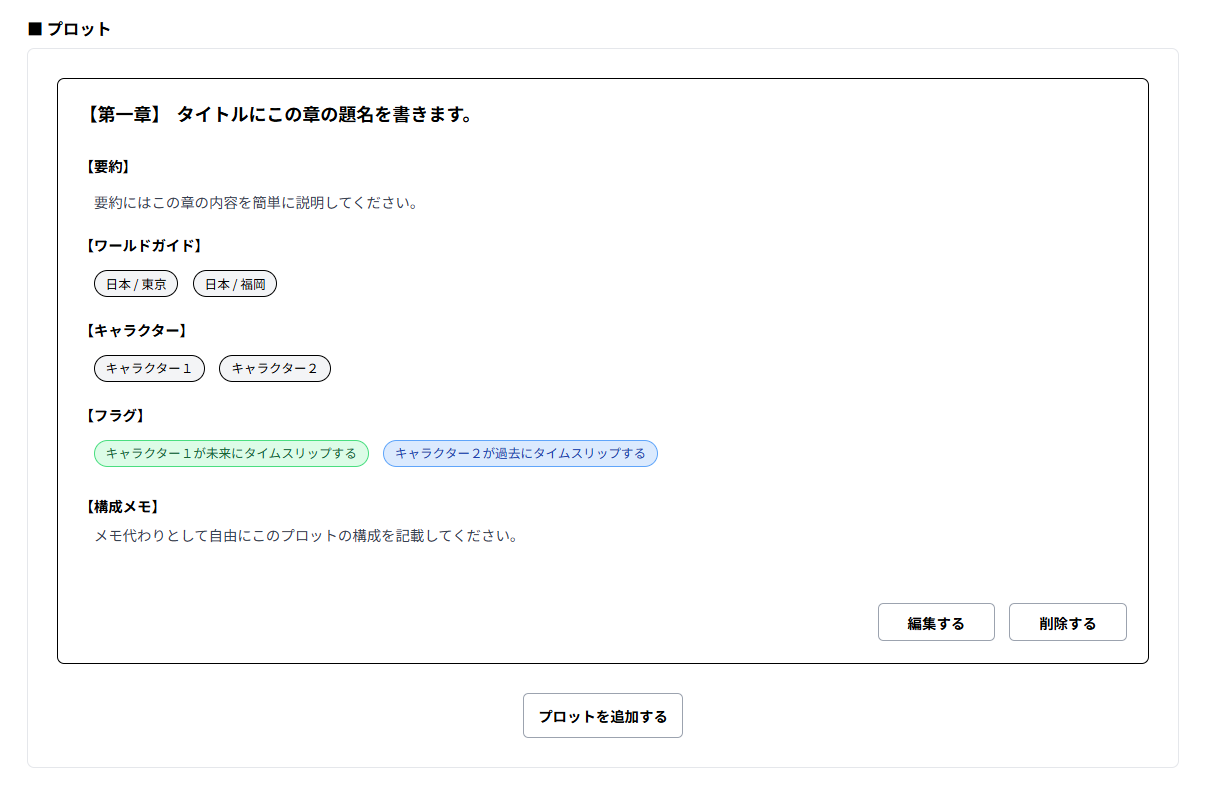
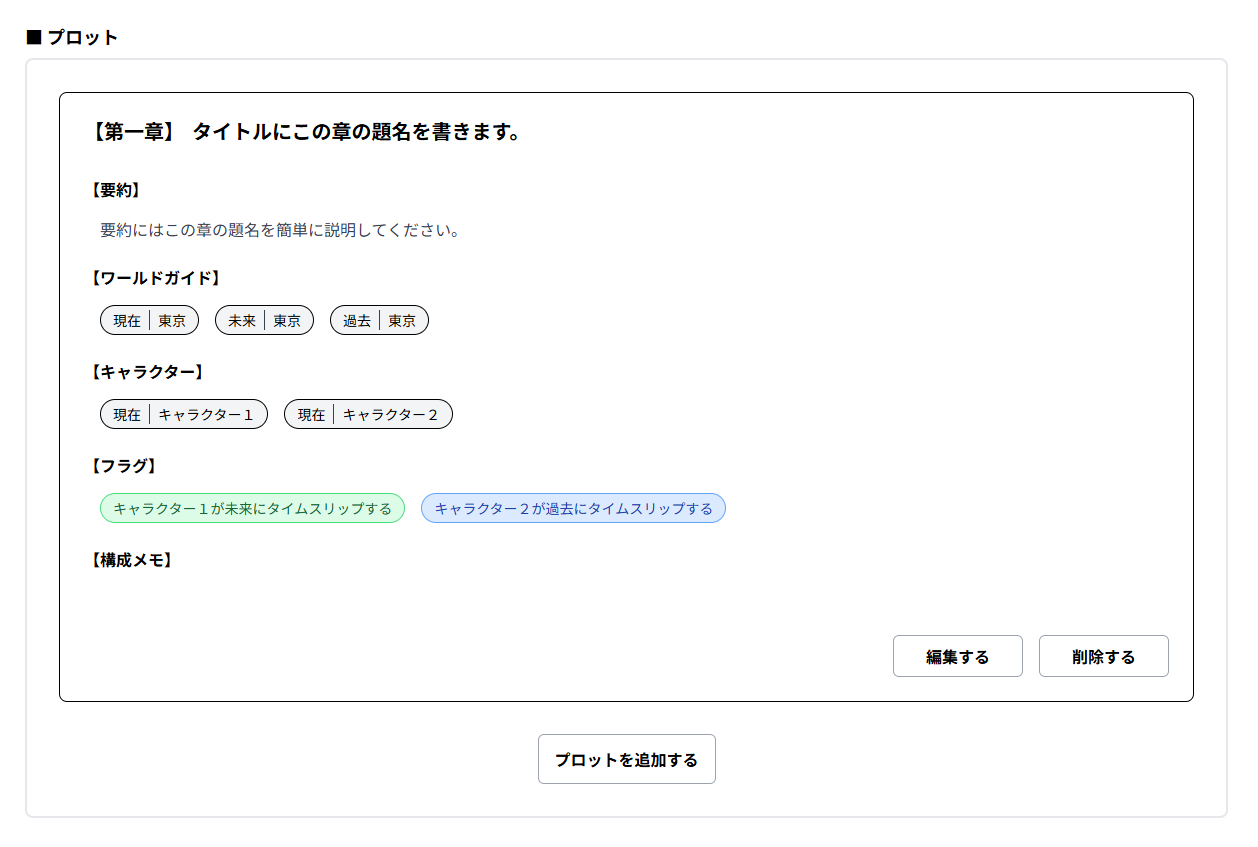
fix-プロットの視認性向上

diff --git a/app/javascript/controllers/nested_form_controller.js b/app/javascript/controllers/nested_form_controller.js
@@ -86,32 +86,43 @@ export default class extends Controller {
       return;
     }
 
-    const categoryId = this.inputTypeTarget.value
-    const categoryName = this.inputTypeTarget.selectedOptions[0].text
-    const explanation = this.inputExplanationTarget.value
+    const selectedOption = this.inputTypeTarget.selectedOptions[0];
+    const categoryId = selectedOption.value;
+    const categoryName = selectedOption.dataset.category; 
+    const characterName = selectedOption.dataset.name;
+    const explanation = this.inputExplanationTarget.value;
+
     if (!categoryId || explanation.trim() === "") {
       if (event.type !== 'manual_restore') {
-        this.showFlash("特徴と説明の両方を入力してください。")
+        this.showFlash("キャラクターと関係性の両方を入力してください。")
       }
       return
     }
-    
+  
     if (this.hasFlashContainerTarget) {
       this.flashContainerTarget.innerHTML = ""
     }
-    
+  
     const childIndex = new Date().getTime() + Math.floor(Math.random() * 1000);
     const content = this.templateTarget.innerHTML.replace(/NEW_RECORD/g, childIndex);
-
     this.containerTarget.insertAdjacentHTML("beforeend", content)
-    const newCapsule = this.containerTarget.lastElementChild
-    
-    newCapsule.querySelector("[data-nested-form-target='capsuleText']").textContent = `${categoryName} / ${explanation}`
-    newCapsule.querySelector("[data-nested-form-target='hiddenCategoryId']").value = categoryId
-    newCapsule.querySelector("[data-nested-form-target='hiddenExplanation']").value = explanation
-    
-    this.inputExplanationTarget.value = ""
-    this.inputTypeTarget.selectedIndex = 0
+    const newCapsule = this.containerTarget.lastElementChild;
+    const capsuleTextSpan = newCapsule.querySelector("[data-nested-form-target='capsuleText']");
+
+    const newContentHTML = `
+      <span class="flex items-center">${categoryName}</span>
+      <span class="border-l border-gray-700"></span>
+      <span class="flex items-center">${characterName} / ${explanation}</span>
+    `;
+
+    capsuleTextSpan.innerHTML = newContentHTML;
+    capsuleTextSpan.classList.add("flex", "items-stretch", "gap-x-2");
+
+    newCapsule.querySelector("[data-nested-form-target='hiddenCategoryId']").value = categoryId;
+    newCapsule.querySelector("[data-nested-form-target='hiddenExplanation']").value = explanation;
+  
+    this.inputExplanationTarget.value = "";
+    this.inputTypeTarget.selectedIndex = 0;
   }
 
   remove(event) {

diff --git a/app/javascript/controllers/multi_select_controller.js b/app/javascript/controllers/multi_select_controller.js
@@ -1,7 +1,7 @@
 import { Controller } from "@hotwired/stimulus"
 
 export default class extends Controller {
-  static targets = ["select", "container", "template", "name", "value", "flashContainer"]
+  static targets = ["select", "container", "template", "category", "name", "value", "flashContainer"]
 
   static values = {
     duplicateMessage: { type: String, default: "すでに追加されています。この項目は複数追加できません。" }
@@ -12,6 +12,7 @@ export default class extends Controller {
     const selectedOption = this.selectTarget.selectedOptions[0]
     const selectedValue = selectedOption.value
     const selectedName = selectedOption.dataset.name
+    const selectedCategory = selectedOption.dataset.category
 
     if (!selectedValue) return
 
@@ -24,6 +25,7 @@ export default class extends Controller {
 
     const capsule = this.templateTarget.content.cloneNode(true)
 
+    capsule.querySelector("[data-multi-select-target='category']").textContent = selectedCategory
     capsule.querySelector("[data-multi-select-target='name']").textContent = selectedName
     capsule.querySelector("[data-multi-select-target='value']").value = selectedValue
     

diff --git a/app/models/world_guide.rb b/app/models/world_guide.rb
@@ -9,11 +9,15 @@ class WorldGuide < ApplicationRecord
   accepts_nested_attributes_for :world_guide_features, allow_destroy: true, reject_if: :all_blank
 
   enum category: {
-    present: "現在",
-    future: "未来",
-    past: "過去",
-    fantasy: "空想"
+    "現在" => "現在",
+    "未来" => "未来",
+    "過去" => "過去",
+    "空想" => "空想"
   }
+
+  def category_with_display_name
+    "#{category} : #{country_and_region}"
+  end
 
   def country_and_region
     [ country_name, region_name ].compact.reject(&:blank?).join(" / ")

diff --git a/app/models/character.rb b/app/models/character.rb
@@ -18,11 +18,12 @@ class Character < ApplicationRecord
   has_many :plots, through: :plot_characters
 
   enum category: {
-    present: "現在",
-    future: "未来",
-    past: "過去",
-    fantasy: "空想"
+    "現在" => "現在",
+    "未来" => "未来",
+    "過去" => "過去",
+    "空想" => "空想"
   }
+
   enum gender: {
     male: 0,
     female: 1,
